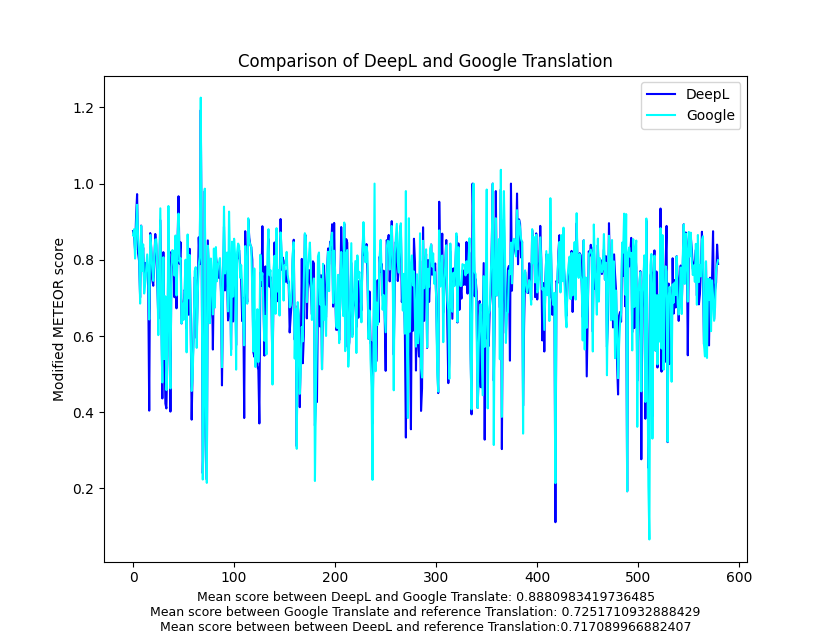
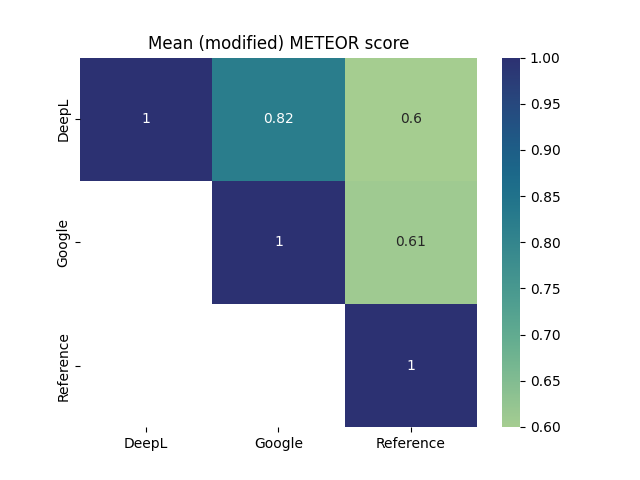
feat: Updated (Heatmap) figures in README

diff --git a/src/analysis.py b/src/analysis.py
@@ -1,8 +1,11 @@
 import matplotlib.pyplot as plt
+import seaborn as sns
 import pandas as pd
 import numpy as np
-from metrics import levenshtein, meteor
 from tqdm import tqdm
+
+from metrics import levenshtein, meteor
+
 import sys
 import math
 
@@ -25,7 +28,7 @@ google_meteor = np.array([])
 scores = np.array([])
 num_words = np.array([])
 
-#compare the rest of the text
+# Compare the text
 for i in tqdm (range(0, len(english_paragraphs)), colour="green", desc="Comparing Paragraphs...", file=sys.stdout):
     # Preprocess the paragraph
     human = preprocess(human_paragraphs[i])
@@ -50,38 +53,42 @@ for i in tqdm (range(0, len(english_paragraphs)), colour="green", desc="Comparin
     except Exception as e:
         pass
 
-# Plotting results
-
-# Plot a comparison of deepl and google by levenshtein distance
-plt.title("Comparison of DeepL and Google Translation")
-plt.plot(deepl_distances/num_words, label="DeepL", color="blue")
-plt.plot(google_distances/num_words, label="Google", color="cyan")
-plt.ylabel("Levenshtein distance (per English word)")
-plt.xlabel(
-    "Mean distance between DeepL and Google Translate"
-    + str(np.mean(distances/num_words))
-    + "\nMean distance between DeepL and reference Translation:"
-    + str(np.mean(deepl_distances/num_words))
-    + "\nMean distance between Google Translate and reference Translation:"
-    + str(np.mean(google_distances/num_words)),
-    fontsize=9
+# Create heatmaps for results
+lev_map = np.array(
+    [   # DeepL, Google, Reference
+        [0, np.mean(distances/num_words), np.mean(deepl_distances/num_words)], # DeepL
+        [None, 0, np.mean(google_distances/num_words)], # Google
+        [None, None, 0], # Reference
+    ],
+    dtype=float,
 )
-plt.legend()
+
+meteor_map = np.array(
+    [   # DeepL, Google, Reference
+        [1, np.mean(scores), np.mean(deepl_meteor)], # DeepL
+        [None, 1, np.mean(google_meteor)], # Google
+        [None, None, 1], # Reference
+    ],
+    dtype=float,
+)
+
+# Plotting results
+sns.heatmap(
+    lev_map,
+    annot=True,
+    xticklabels=["DeepL","Google","Reference"],
+    yticklabels=["DeepL","Google","Reference"],
+    cmap=sns.color_palette("crest_r", as_cmap=True)
+)
+plt.title("Mean Levenshtein Distance (per English word)")
 plt.show()
 
-# Plot a comparison of deepl and google by METEOR
-plt.title("Comparison of DeepL and Google Translation")
-plt.plot(deepl_meteor, label="DeepL", color="blue")
-plt.plot(google_meteor, label="Google", color="cyan")
-plt.ylabel("Modified METEOR score")
-plt.xlabel(
-    "Mean score between DeepL and Google Translate: "
-    + str(np.mean(scores))
-    + "\nMean score between Google Translate and reference Translation: "
-    + str(np.mean(google_meteor))
-    + "\nMean score between between DeepL and reference Translation:"
-    + str(np.mean(deepl_meteor)),
-    fontsize=9
+sns.heatmap(
+    meteor_map,
+    annot=True,
+    xticklabels=["DeepL","Google","Reference"],
+    yticklabels=["DeepL","Google","Reference"],
+    cmap=sns.color_palette("crest", as_cmap=True)
 )
-plt.legend()
+plt.title("Mean (modified) METEOR score")
 plt.show()

diff --git a/README.md b/README.md
@@ -42,12 +42,14 @@ python test.py
 
 ## Results
 
-Results from analysis of the tokenized data suggest that both DeepL and Google differ significantly from the reference/human translation in levenshtein distance and METEOR score. This could be due to more artistic (less exact or literal) translation by the human translator. However, neither seems much better than the other. If one were better, we would see it as much lower Levenshtein distance or higher METEOR score in the charts below.
+Results from analysis of the tokenized data suggest that both DeepL and Google differ significantly from the reference/human translation in Levenshtein Distance and METEOR score. However, both services' translations are quite similar to each other.
 
-Instead, we see little difference between Google and DeepL's translations directly. These are much closer correlated than either machine translation to the reference translation.
+If one were better, it would have a lower Levenshtein Distance or a higher METEOR score compared to the reference.
 
-I conclude that neither translation service is better than the other.
+**I conclude that neither translation service is better than the other.**
 
 ![](images/figure_lev.png)
 
 ![](images/figure_meteor.png)
+
+This could be due to more artistic (less literal) translation by the human translator or to similarities in the architecture and training of the translation models used by DeepL and Google.
